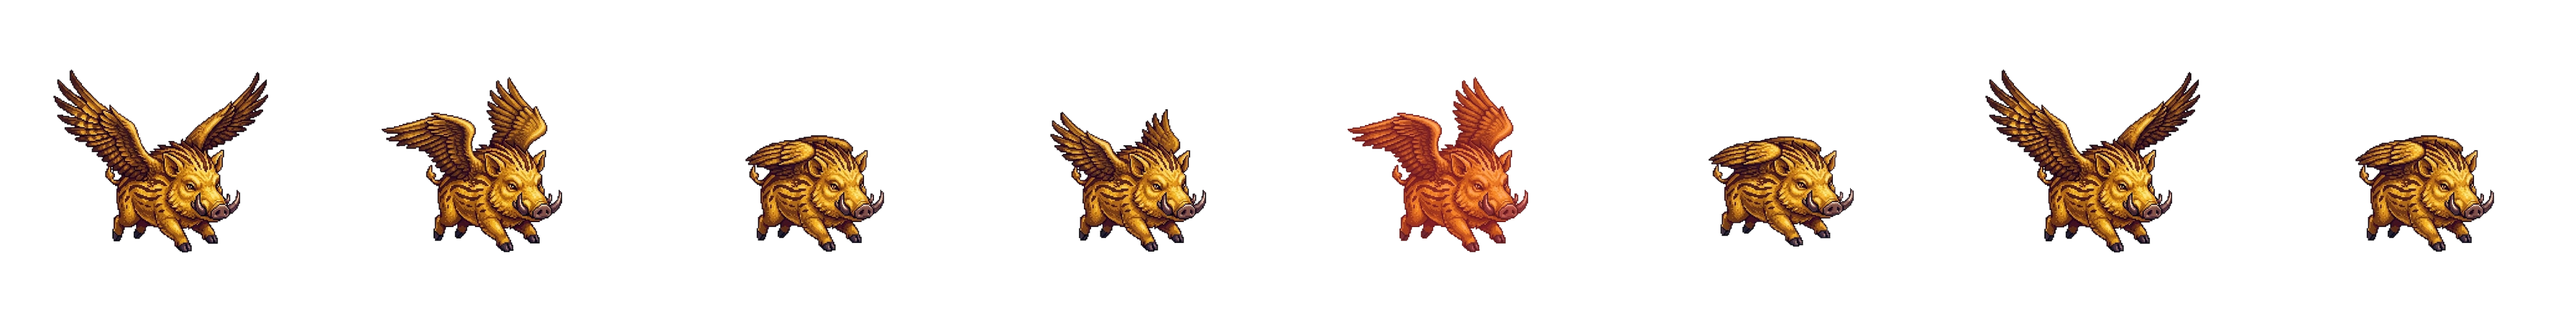
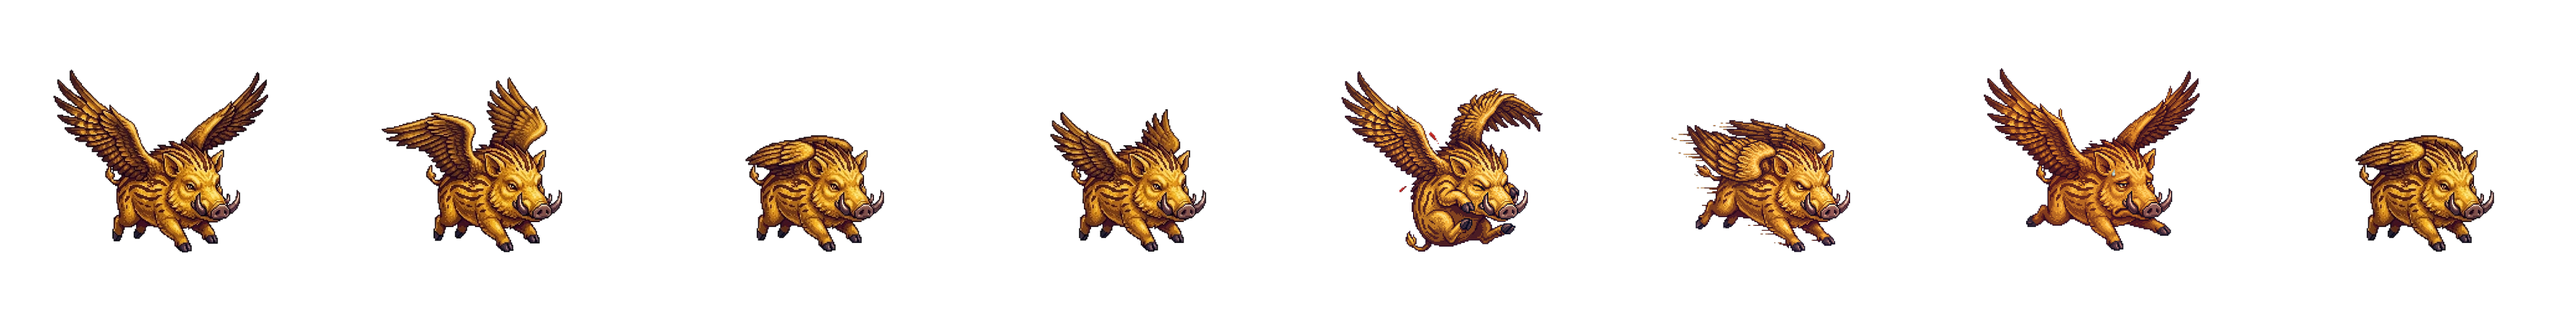
When Pigs Fly: piglet stand; juvenile hurt, dash and landing, drawn, synced from app 0c8dc76

Changed region(s): [[0.5, 0.25, 0.625, 0.7812], [0.75, 0.25, 0.875, 0.7812], [0.6562, 0.375, 0.7188, 0.7812]]

diff --git a/arcade/v2/app/lib/arcade/passage/boar.dart b/arcade/v2/app/lib/arcade/passage/boar.dart
@@ -159,8 +159,8 @@ class BoarSpec {
       sizeInRadii: 5.83,
       anchorU: 0.54,
       anchorV: 0.586,
-      // The drawn wingbeat's folded frame, which is also the standing one.
-      footV: 0.828,
+      // The owner's drawn stand, placed on the wingbeat's hoof line.
+      footV: 0.821,
       name: 'Piglet',
       bodyHalfLength: 0.35,
       // Up, level, down, folding in.

diff --git a/arcade/TEN-GAMES.md b/arcade/TEN-GAMES.md
@@ -681,6 +681,92 @@ the gap and no white patch, alongside the game's own speed streaks. (The
 first install attempt failed because the Pixel had dropped off adb; the
 check was redone once it was plugged back in.)
 
+### The juvenile's drawn landing — 2026-09-28
+
+Wings raised high, forelegs reaching down, a weary look and a sweat drop.
+It is kept as `boar_juvenile_land_drawn.jpg` and went in with:
+
+    python tool/art/split_frames.py tool/art/source/boar_juvenile_land_drawn.jpg tool/art/source/boar_juvenile \
+        --frames 1 --ref tool/art/source/boar_juvenile_cycle_1.png --names land --holes \
+        --floor tool/art/source/boar_juvenile_cycle_3.png
+
+**Placement:**
+- **Size:** the head match found 0.263 unaided, the same as the hurt
+  (0.260) and dash (0.263), so no `--scale` was needed. The head is weary
+  but not drooped the way the piglet's was.
+- **Floor:** `cycle_3` is the compact drawing, the juvenile's standing frame
+  for now. A drawn stand should be floored on the same line.
+
+footV is unchanged (the checker reads 0.781 against 0.782). Verified on the
+Pixel: DEV "Skip to the landing", recorded. It comes in wings-high and
+touches down on the ground line, then settles into the stand. Still made
+from the wingbeat for the juvenile: stand.
+
+### The juvenile's drawn dash — 2026-09-28
+
+The owner's "adult boar dash": golden wings swept flat back, head down in a
+charge, speed streaks trailing. It is kept as
+`boar_juvenile_dash_drawn.jpg` and went in like the hurt (`--names dash
+--holes`) at 0.263. The tusks, snout and eye sit on the flying frame's. The
+streaks joined to the wings and body stay; the loose ones drop like
+sparkles. Verified on the Pixel: dashed and paused within the dash window,
+it shows the charge alongside the game's speed streaks. Still made from the
+wingbeat for the juvenile: land and stand.
+
+### The juvenile's drawn hurt — 2026-09-28
+
+The owner's "adult boar hurt": a tumble, body curled and rotated about 30°,
+eyes squeezed shut, red impact marks, and loose feathers flying. The golden
+feathered wings make it the juvenile's. The razorback's wings are membrane.
+It is kept as `boar_juvenile_hurt_drawn.jpg` and went in with:
+
+    python tool/art/split_frames.py tool/art/source/boar_juvenile_hurt_drawn.jpg tool/art/source/boar_juvenile \
+        --frames 1 --ref tool/art/source/boar_juvenile_cycle_1.png --names hurt --holes
+
+The rotated body was a worry for the head match, but it placed well:
+- **Size:** 0.260, the same size as the wingbeat.
+- **Head:** the tusks and snout sit on the flying frame's.
+- **Body:** its centre of mass is within 13px of the flying frame's, so the
+  curl tumbles about the same point.
+
+The impact marks and feathers are detached, so the importer drops them like
+sparkles. Verified on the Pixel: after a strike, the juvenile shows the
+tumble for the hurt window, in place, then returns to its wingbeat. Still
+made from the wingbeat for the juvenile: dash, land and stand.
+
+### The piglet's drawn stand: the piglet is fully drawn — 2026-09-28
+
+The last pose is the piglet standing, wings folded flat along its back, with
+the same smile as in flight. It came at a different zoom from the close-ups
+(the image is about half their width). It is kept as
+`boar_piglet_stand_drawn.jpg` and went in with:
+
+    python tool/art/split_frames.py tool/art/source/boar_piglet_stand_drawn.jpg tool/art/source/boar_piglet \
+        --frames 1 --ref tool/art/source/boar_piglet_cycle_1.png --names stand \
+        --floor tool/art/source/boar_piglet_cycle_4.png
+
+**How it was placed:**
+- **Size by head match.** The face is the flying face, so the match sized it
+  unaided, at 0.482. An onion skin over the flying frame lines up the head
+  and body.
+- **Floored on the same hoof line as the landing,** so the two share a
+  ground and the landing needs no re-split.
+
+**Foot line.** The checker measures the stand's hooves at 0.821, against the
+0.828 in boar.dart. A pose scaled by about half has softer hoof tips, which
+the checker's alpha > 32 reads a few pixels higher. Left alone, the standing
+piglet would have sunk about 3px, so footV is now 0.821.
+
+**The piglet is fully drawn** by the owner: four wingbeat drawings, hurt,
+dash, land and stand. Nothing in its sheet is made from other frames any
+more. The front-room card and the growing-up moment show the drawn stand.
+
+**Verified on the Pixel:**
+- **Front room:** the card shows the drawn stand.
+- **Touchdown**, recorded with DEV "Skip to the landing": flying, then the
+  teary flop on the ground line, then the stand. All on one line, with no
+  jump.
+
 ### The piglet's drawn landing — 2026-09-28
 
 The third drawn pose is the piglet's landing: flopped on its belly with its
@@ -706,9 +792,9 @@ The command used:
         --frames 1 --ref tool/art/source/boar_piglet_cycle_1.png --names land \
         --scale 0.245 --floor tool/art/source/boar_piglet_cycle_4.png
 
-`cycle_4` is the folded drawing, which is also the piglet's standing frame
-for now. **When a drawn stand arrives, re-split the landing with
-`--floor boar_piglet_stand.png`**, so the two share a ground line.
+`cycle_4` is the folded drawing, which was also the piglet's standing frame
+at the time. The drawn stand that followed was floored on the same line, so
+the two share a ground.
 
 **The falling feathers** are detached from the boar, so the importer drops
 them like sparkles. Keeping them would need an exception in
